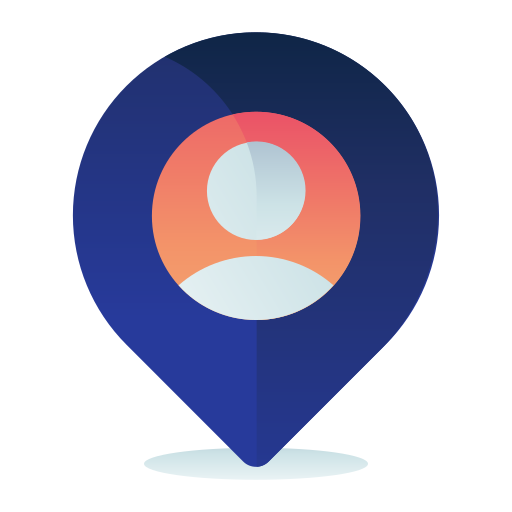
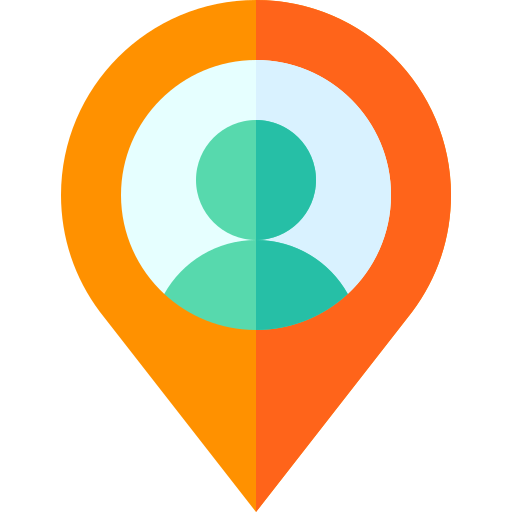
[FEAT] 맵 우측 하단 내 위치로 버튼 추가

diff --git a/src/main/resources/static/css/style.css b/src/main/resources/static/css/style.css
@@ -692,3 +692,51 @@ html, body {
 .radius-option + .radius-option {
     border-top: 1px solid rgba(0, 0, 0, 0.06);
 }
+
+.radius-dropdown {
+    position: absolute;
+    bottom: 20px;
+    right: 20px;
+    z-index: 100;
+}
+
+/* ========================================
+   ✅ 내 위치로 돌아가기 버튼 스타일
+======================================== */
+.my-location-btn {
+    position: absolute;
+    bottom: 89px;  /* 반경 드롭다운 위쪽에 배치 */
+    right: 20px;
+    width: 58px;
+    height: 58px;
+    background: white;
+    border: none;
+    border-radius: 12px;
+    box-shadow: 0 2px 8px rgba(0, 0, 0, 0.15);
+    cursor: pointer;
+    font-size: 24px;
+    display: flex;
+    align-items: center;
+    justify-content: center;
+    transition: all 0.2s ease;
+    z-index: 100;
+    padding: 8px;
+}
+
+.my-location-btn img {  /* 🆕 이미지 스타일 */
+    width: 100%;
+    height: 100%;
+    object-fit: contain;
+}
+
+.my-location-btn:hover {
+    background: #f5f5f5;
+    box-shadow: 0 4px 12px rgba(0, 0, 0, 0.2);
+    transform: scale(1.05);
+}
+
+.my-location-btn:active {
+    transform: scale(0.95);
+}
+
+
